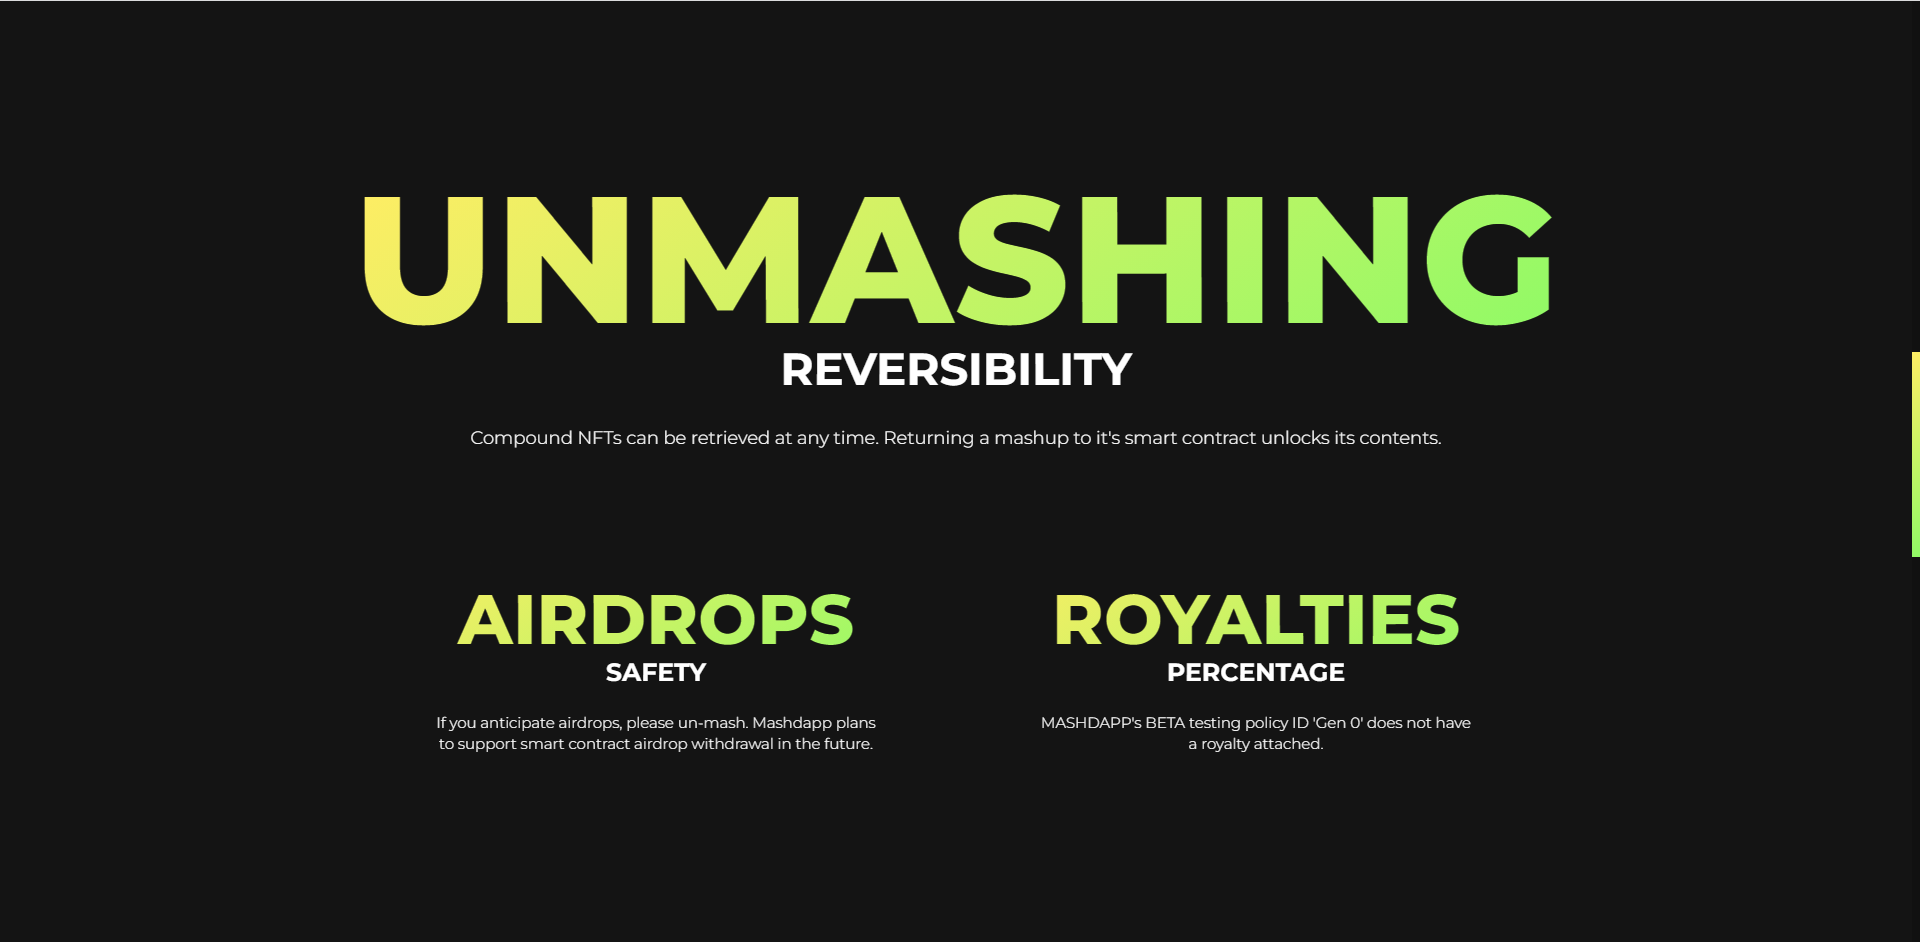
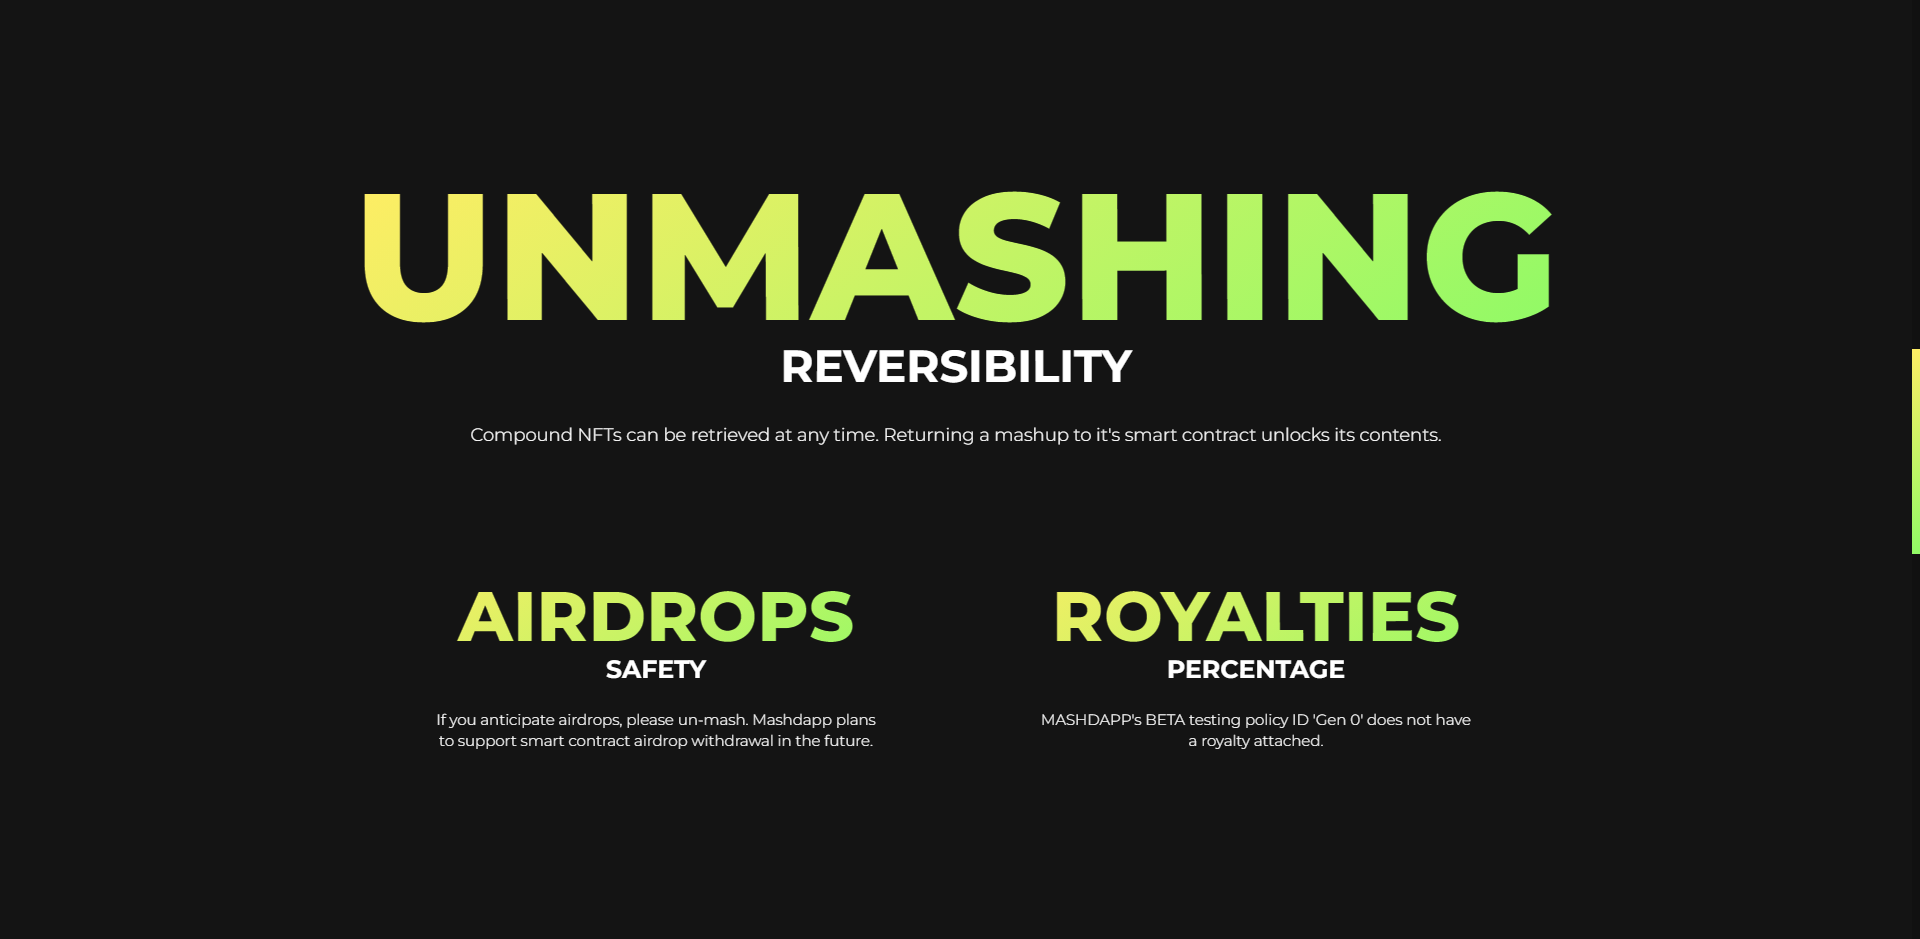
fixed work section project images

diff --git a/app/home/work-project-carousel.module.scss b/app/home/work-project-carousel.module.scss
@@ -4,7 +4,7 @@
 }
 .mainImgContainer {
   width: 100%;
-  height: 415px;
+  height: 430px;
   border: 1px solid #202020;
 }
 .mainImg {
